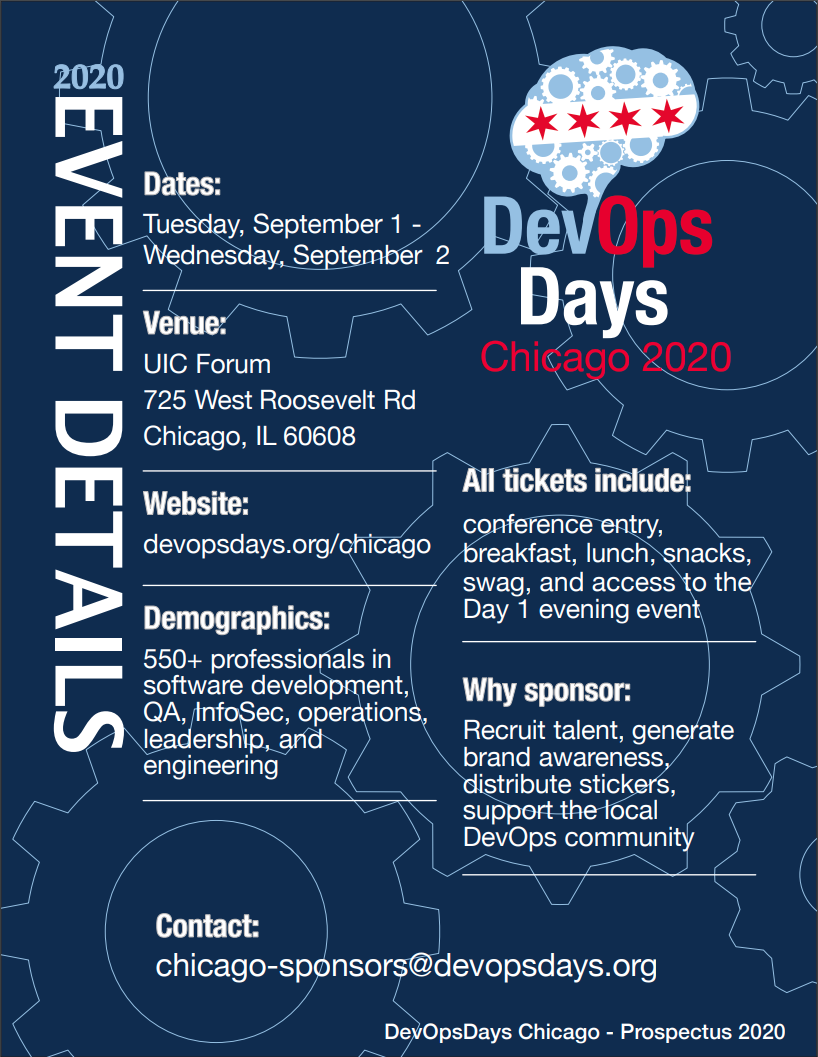
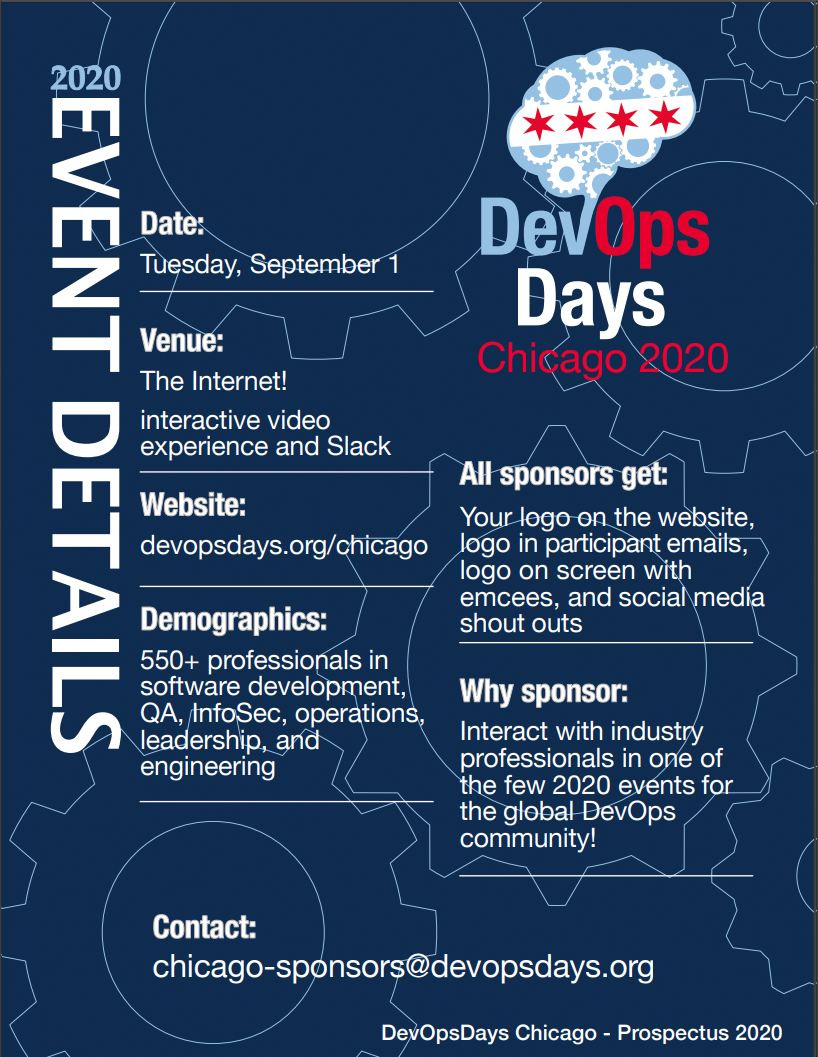
[2020-CHI] Update with new sponsorship packages

diff --git a/content/events/2020-chicago/sponsor.md b/content/events/2020-chicago/sponsor.md
@@ -1,18 +1,186 @@
 +++
-title = "Sponsor"
+title = "sponsor"
 type = "event"
 description = "Interested in sponsoring DevOpsDays Chicago 2020? We greatly value sponsors for this open event."
 
 
 +++
-
-Due to COVID-19 and the health risks of an in-person conference DevOpsDays Chicago 2020 will now be a one-day virtual event taking place on Sept 1, 2020. We are currently working on refactoring the sponsorship offerings. Our priority is to offer a unique and valuable virtual conference that includes our distinctive community engagement.
-
-Due to the different needs in a virtual version of DevOpsDays Chicago we do plan to alter sponsorship amounts and offerings. If you are interested in sponsoring, please <a href="mailto:chicago-sponsors@devopsdays.org?subject=Interested%20in%20Sponsoring%20DevOpsDays%20Chicago%202020">send us an email</a>.
+<div class = "row">
+<div class = "col-md-8 col-sm-12">
+We greatly value sponsors for this community event. If you are interested in sponsoring, please check out our <a href="https://assets.devopsdays.org/events/2020/chicago/2020-chicago-devopsdays-prospectus.pdf" target="_blank">prospectus</a> or <a href="mailto:chicago-sponsors@devopsdays.org?subject=Interested%20in%20Sponsoring%20DevOpsDays%20Chicago%202020">send us an email</a>.
 
 <hr>
-<!-- 
-DevOpsDays is a worldwide series of community-led events covering topics of software development, IT infrastructure operations, and the intersection between them. Sponsors support the local event and build the community. 
-Recruit talent, generate brand awareness, distribute stickers, and support the Chicago DevOps community.<br><br>
-Sponsors are encouraged to represent themselves by actively participating and engaging with participants as peers.  -->
 
+DevOpsDays is a worldwide series of community-led events covering topics of software development, IT infrastructure operations, and the intersection between them. Sponsors support the local event and build the community. 
+Recruit talent, generate brand awareness, and support the Chicago DevOps community.<br><br>
+Sponsors are encouraged to represent themselves by actively participating and engaging with participants as peers. 
+All sponsors will have their logo displayed on the DevOpsDays Chicago website, a tweet before the conference, and a thank you during the conference.
+<br><br>
+<h2>Sponsorship Packages</h2>
+
+<table class="table table-bordered table-hover">
+  <thead>
+    <tr>
+      <th scope="col">THE GOODS</th>
+      <th scope="col">GOLD</th>
+      <th scope="col">SILVER</th>
+      <th scope="col">BRONZE</th>
+      <th scope="col">COMMUNITY</th>
+    </tr>
+  </thead>
+  <tbody>
+    <tr>
+      <td>Price</td>
+      <td>$5,000</td>
+      <td>$3,000</td>
+      <td>$1,000</td>
+      <td>Free</td>
+    </tr>
+    <tr>
+      <td></td>
+      <td colspan="3"><small>
+      Note: Paypal payments include 3% service charge.
+      <br>
+      <a href="mailto:chicago-sponsors@devopsdays.org?subject=DevOpsDays%20Chicago%202020%20Sponsorship">Email us</a> if you prefer to pay by check
+      </small></td>
+      <td></td>
+    </tr>
+    <tr>
+      <td></td>
+      <td>
+               <!-- gold Paypal button  -->
+        <form action="https://www.paypal.com/cgi-bin/webscr" method="post" target="_top">
+          <input type="hidden" name="cmd" value="_s-xclick">
+          <input type="hidden" name="hosted_button_id" value="S9SCLZP3USU7L">
+          <input type="image" src="https://www.paypalobjects.com/en_US/i/btn/btn_paynow_LG.gif" border="0" name="submit" alt="PayPal - The safer, easier way to pay online!">
+          <img alt="" border="0" src="https://www.paypalobjects.com/en_US/i/scr/pixel.gif" width="1" height="1">
+        </form>
+      </td>
+      <td>
+             <!-- silver Paypal button  -->
+        <form action="https://www.paypal.com/cgi-bin/webscr" method="post" target="_top">
+          <input type="hidden" name="cmd" value="_s-xclick">
+          <input type="hidden" name="hosted_button_id" value="LUSEMWLZ7MKKW">
+          <input type="image" src="https://www.paypalobjects.com/en_US/i/btn/btn_paynow_LG.gif" border="0" name="submit" alt="PayPal - The safer, easier way to pay online!">
+          <img alt="" border="0" src="https://www.paypalobjects.com/en_US/i/scr/pixel.gif" width="1" height="1">
+        </form>
+      </td>
+      <td>
+        <!-- bronze Paypal button  -->
+        <form action="https://www.paypal.com/cgi-bin/webscr" method="post" target="_top">
+          <input type="hidden" name="cmd" value="_s-xclick">
+          <input type="hidden" name="hosted_button_id" value="DDXAP9S3324DC">
+          <input type="image" src="https://www.paypalobjects.com/en_US/i/btn/btn_paynow_LG.gif" border="0" name="submit" alt="PayPal - The safer, easier way to pay online!">
+          <img alt="" border="0" src="https://www.paypalobjects.com/en_US/i/scr/pixel.gif" width="1" height="1">
+        </form>
+      </td>
+      <td><a href="mailto:chicago-sponsors@devopsdays.org@devopsdays.org?subject=Interested%20in%20Community%20Sponsorship%20DevOpsDays%20Chicago%202020">Contact us</a>
+      </td>
+    </tr>
+    <tr>
+      <td>Logo on DevOpsDays Chicago website</td>
+      <td><img src = "/events/2020-chicago/yak-head.png"></td>
+      <td><img src = "/events/2020-chicago/yak-head.png"></td>
+      <td><img src = "/events/2020-chicago/yak-head.png"></td>
+      <td><img src = "/events/2020-chicago/yak-head.png"></td>
+    </tr>
+    <tr>
+      <td>Logo on participant emails</td>
+      <td><img src = "/events/2020-chicago/yak-head.png"></td>
+      <td><img src = "/events/2020-chicago/yak-head.png"></td>
+      <td><img src = "/events/2020-chicago/yak-head.png"></td>
+      <td><img src = "/events/2020-chicago/yak-head.png"></td>
+    </tr>
+    <tr>
+      <td>Logo as custom Slack emoji</td>
+      <td><img src = "/events/2020-chicago/yak-head.png"></td>
+      <td><img src = "/events/2020-chicago/yak-head.png"></td>
+      <td></td>
+      <td></td>
+    </tr>
+    <tr>
+      <td>Recorded 3 min. pitch to play during a break</td>
+      <td><img src = "/events/2020-chicago/yak-head.png"></td>
+      <td></td>
+      <td></td>
+      <td></td>
+    </tr>
+    <tr>
+      <td>Branded Slack channel where participants are pre-joined</td>
+      <td><img src = "/events/2020-chicago/yak-head.png"></td>
+      <td></td>
+      <td></td>
+      <td></td>
+    </tr>
+    <tr>
+      <td>Branded Slack channel for participants to manually join</td>
+      <td></td>
+      <td><img src = "/events/2020-chicago/yak-head.png"></td>
+      <td></td>
+      <td></td>
+    </tr>
+    <tr>
+      <td>3 pre-written Slack messages inmain Slack channel</td>
+      <td><img src = "/events/2020-chicago/yak-head.png"></td>
+      <td></td>
+      <td></td>
+      <td></td>
+    </tr>
+    <tr>
+      <td>3 social media shout-outs before and during event</td>
+      <td><img src = "/events/2020-chicago/yak-head.png"></td>
+      <td></td>
+      <td></td>
+      <td></td>
+    </tr>
+    <tr>
+      <td>1 social media shout-out before and during event</td>
+      <td></td>
+      <td><img src = "/events/2020-chicago/yak-head.png"></td>
+      <td></td>
+      <td></td>
+    </tr>
+  </tbody>
+</table>
+
+<h2>Special Sponsorships</h2>
+
+All special sponsors will have their logo displayed on the DevOpsDays Chicago website, a tweet before the conference, and a thank you during the conference. We do have some flexibilities with these sponsorships, so just ask! Email us: <a href="mailto:chicago-sponsors@devopsdays.org@devopsdays.org">chicago-sponsors@devopsdays.org</a>.
+<br/><br/>
+
+<table class="table table-bordered table-hover">
+  <thead>
+    <tr>
+      <th scope="col"></th>
+      <th scope="col">Sponsorship</th>
+      <th scope="col">Price</th>
+      <th scope="col">Description</th>
+      <th scope="col">Number Available</th>
+    </tr>
+  </thead>
+  <tbody>
+    <tr>
+      <td align="center"><i class="fa fa-commenting fa-4x"></i></td>
+      <td>Live Transcription</td>
+      <td>$1,500</td>
+      <td>Logo on a dedicated slide on transitions during a break and branded Slack channel participants can manually join</td>
+      <td>1</td>
+    </tr>
+  </tbody>
+</table>
+
+<div class = "row">
+<div class = "col-12">
+  <br/>
+  <br/>
+  Sponsors are responsible for providing high-res logos for use on the website and in promotional materials.  The preferred file formats are EPS or AI.
+  <br/><br/>
+  <b>All sponsors attendees must be registered to attend</b>.
+<br><br>
+</div>
+</div>
+</div>
+<div class = "col-md-4 col-sm-12">
+<a href = "https://assets.devopsdays.org/events/2020/chicago/2020-chicago-devopsdays-prospectus.pdf" target="_blank"><img src = "/events/2020-chicago/DOD_Chi_Prospectus_2020.png" class="img-fluid""></a>
+</div>
+</div>
